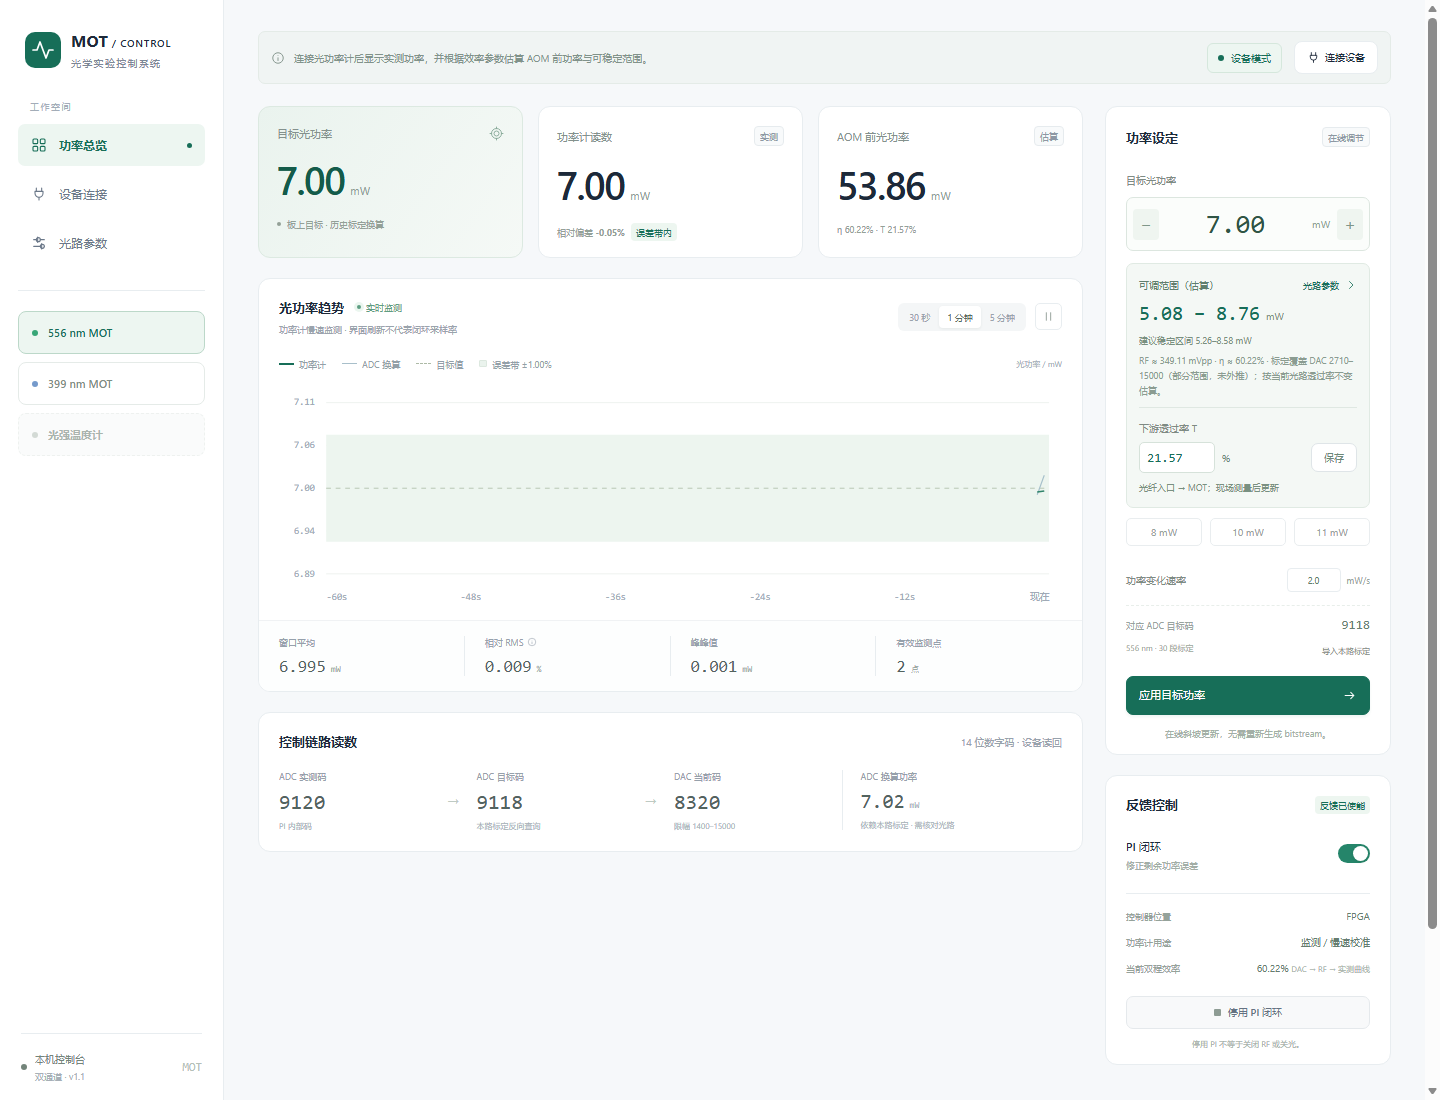
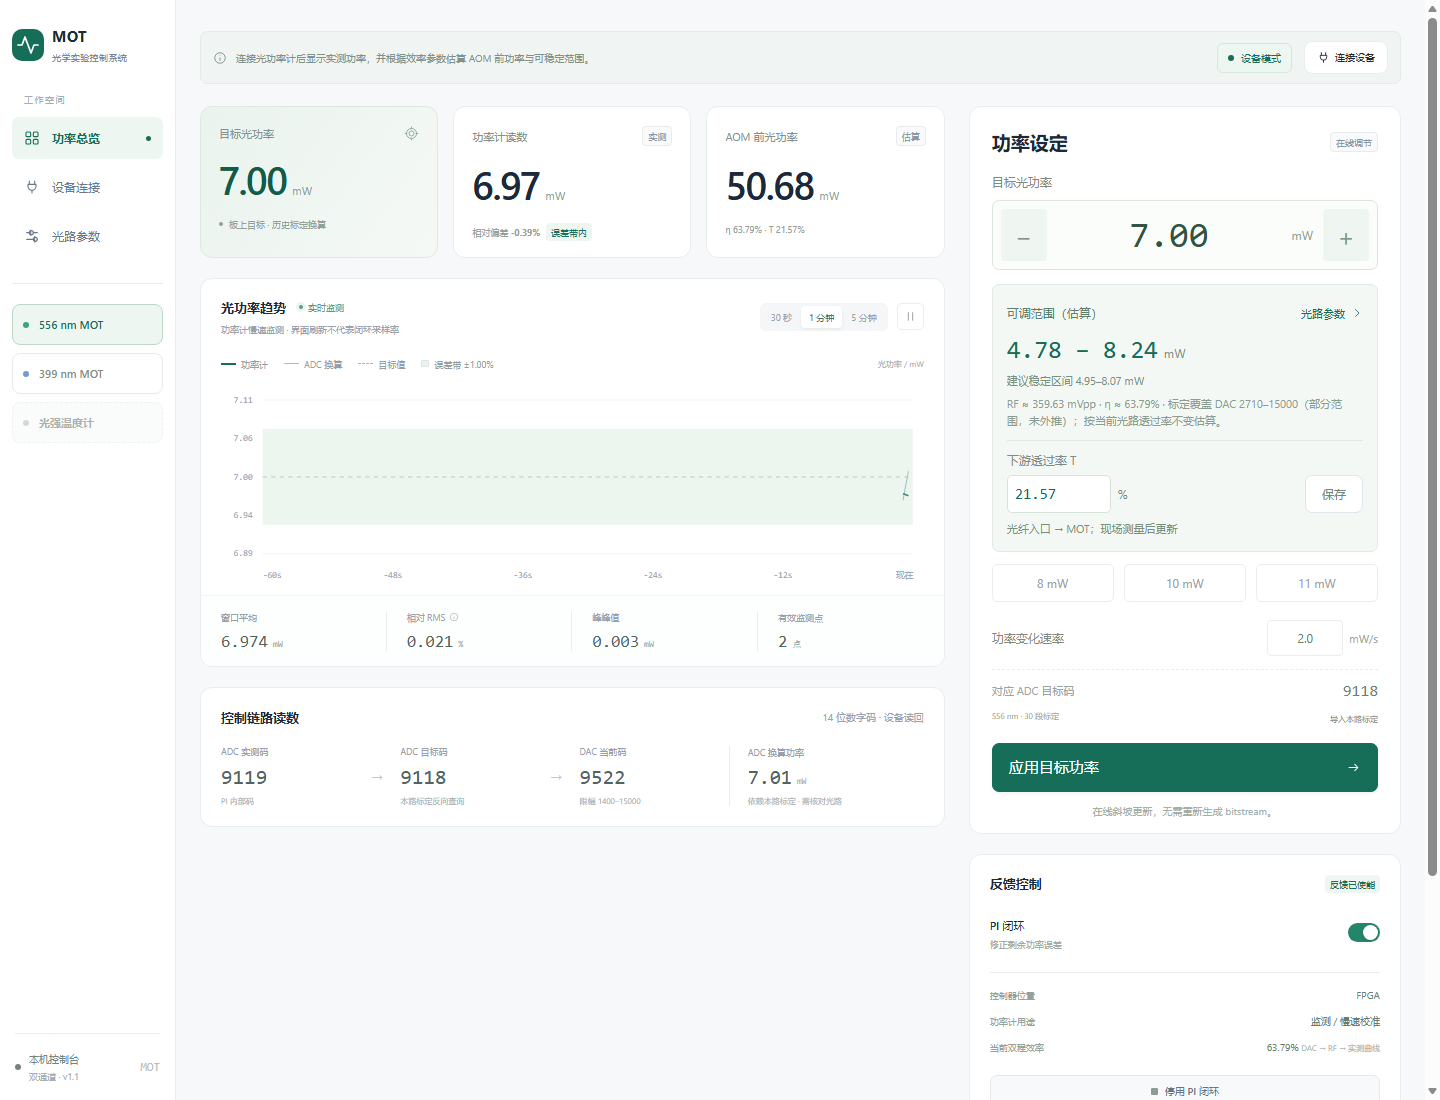
Narrow navigation and enlarge power settings panel and controls

diff --git a/styles.css b/styles.css
@@ -34,3 +34,39 @@ h1>b{font-weight:650}.channel-tabs{display:flex;gap:10px;margin:0 0 18px}.channe
 .transmission-controls input{width:76px;min-width:0;border:1px solid #d6e2da;border-radius:5px;padding:7px;background:white;color:var(--green);font:13px Consolas,monospace}
 .transmission-controls .button{margin-left:auto;padding:6px 12px;font-size:10px}
 .transmission-setting #transmission-error{color:var(--red)}.transmission-setting #transmission-error:empty{display:none}
+
+/* Prioritize the frequently used power controls. */
+@media(min-width:1051px){
+  .sidebar{width:176px;padding:26px 12px 18px}
+  .shell{margin-left:176px}
+  .brand{gap:8px;padding:0;font-size:15px}.brandmark{width:32px;height:32px}
+  .brand-light{display:none}.brand small{font-size:9px;letter-spacing:.4px}
+  .nav-item{padding-left:12px;padding-right:12px}.sidebar-channels .channel-tab{padding:12px 10px}
+  main{max-width:1800px;padding-left:24px;padding-right:24px}
+}
+@media(min-width:901px){.dashboard-grid{grid-template-columns:minmax(0,1fr) minmax(360px,36%);gap:24px}}
+.setpoint-card>.card-heading{padding:22px 22px 0}.setpoint-card>.card-heading h2{font-size:19px}
+.setpoint-card form{padding:18px 22px 0}.setpoint-card label{font-size:12px}
+.setpoint-card .power-input-wrap{padding:8px;gap:10px;margin-top:10px}
+.setpoint-card .power-input-wrap input{font-size:36px;min-height:52px}
+.setpoint-card .power-input-wrap>span{font-size:12px}
+.setpoint-card .step-button{width:46px;height:52px;font-size:25px}
+.setpoint-card .preset-row{gap:10px;margin-top:12px}
+.setpoint-card .preset-row button{min-height:38px;font-size:12px}
+.setpoint-card .field-line{margin-top:18px}.setpoint-card .field-line input{width:76px;min-height:36px;font-size:12px}
+.setpoint-card .field-line>div{font-size:11px}.setpoint-card .setpoint-preview{font-size:11px}
+.setpoint-card .setpoint-preview strong{font-size:16px}
+.setpoint-card .primary{min-height:48px;font-size:15px;padding:12px 16px;margin-top:16px}
+.setpoint-card .setpoint-hint{font-size:10px}
+.target-range{padding:14px;margin-top:14px}.target-range-heading{font-size:12px}
+.target-range-heading button{font-size:11px;min-height:28px}.target-range-value strong{font-size:25px}
+.target-range-value>span{font-size:12px}.target-range small{font-size:11px;line-height:1.6}
+.transmission-controls input{width:104px;min-height:38px;font-size:15px}
+.transmission-controls{font-size:12px}.transmission-controls .button{min-height:38px;font-size:12px;padding:8px 16px}
+@media(max-width:900px){.dashboard-grid{grid-template-columns:1fr}.control-column{order:-1;display:flex;flex-direction:column}.control-column .calibration-note{display:none}}
+@media(max-width:600px){
+  .setpoint-card>.card-heading{padding:18px 14px 0}.setpoint-card form{padding:16px 14px 0}
+  .setpoint-card .power-input-wrap{gap:6px;padding:6px}.setpoint-card .power-input-wrap input{font-size:31px}
+  .setpoint-card .step-button{width:40px;height:46px}.target-range{padding:10px}
+  .target-range-value strong{font-size:22px}.target-range small{font-size:10px}
+}
